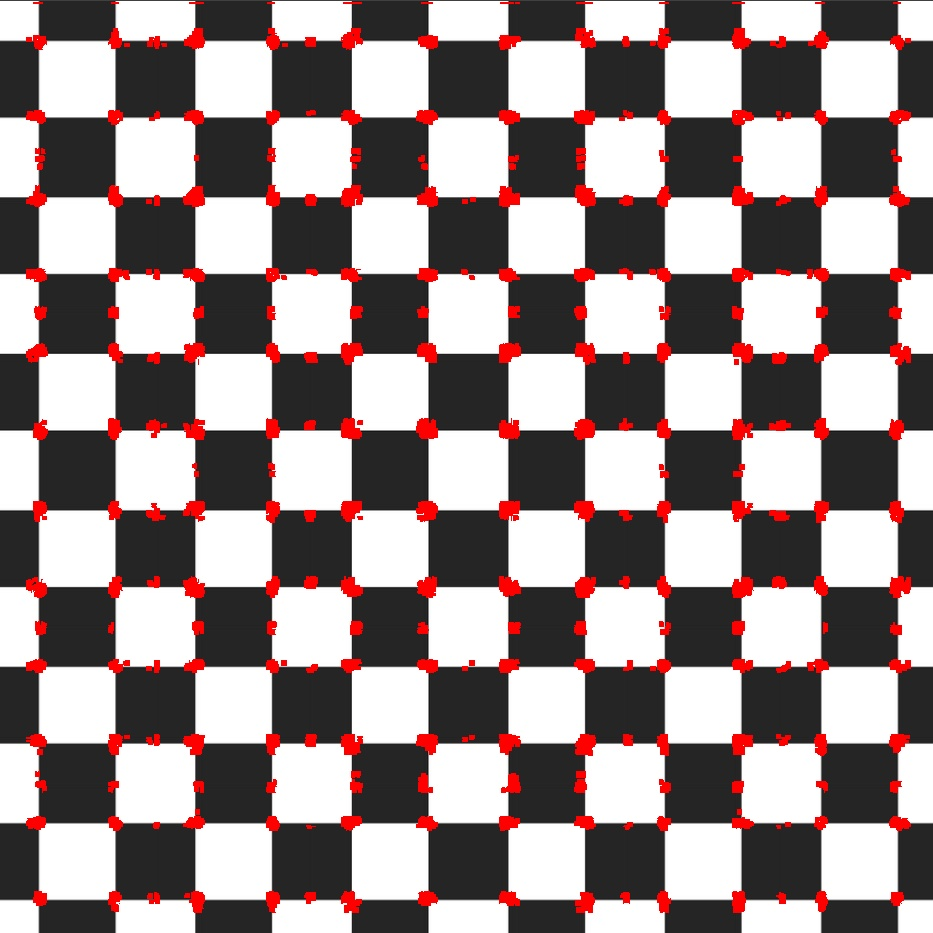
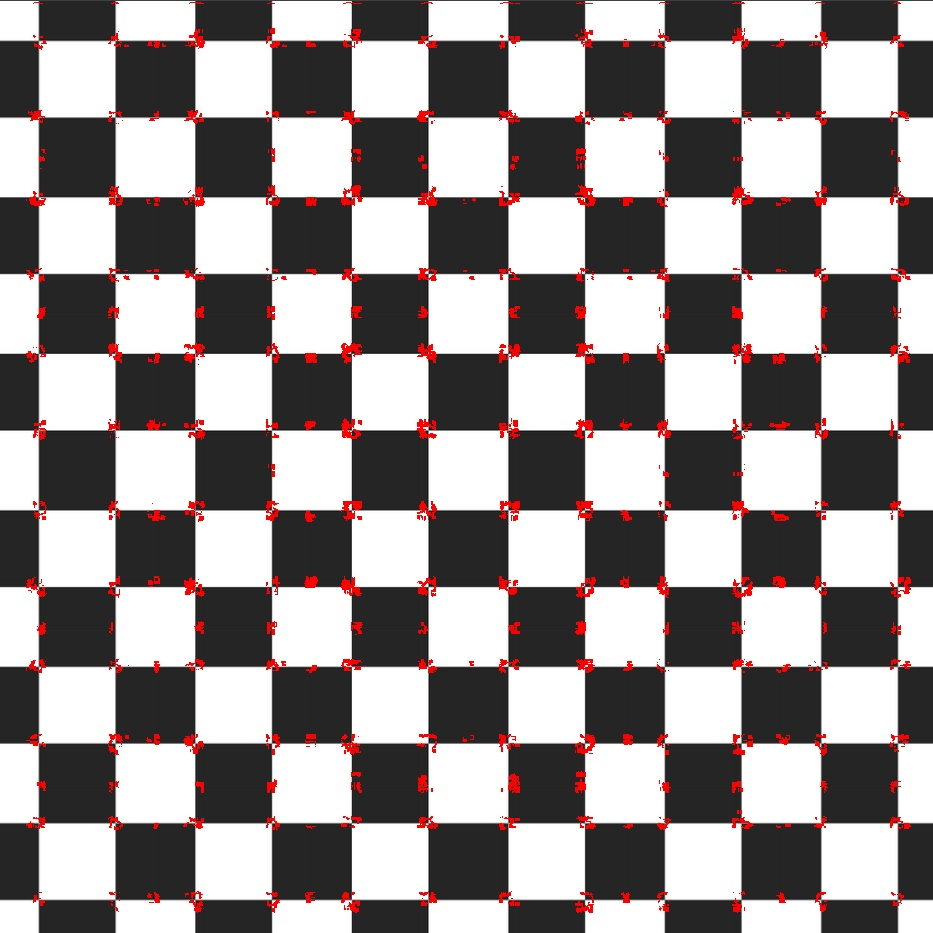
chenged threshold value of Harris corner

diff --git a/assignment1/ass1.py b/assignment1/ass1.py
@@ -320,13 +320,13 @@ if __name__ == "__main__":
 	# binary_img = part4(img)
 	# cv2.imwrite("Binary.jpg", binary_img)
 
-	#Part - 5 - Harris Corner
+	# Part - 5 - Harris Corner
 	# img = cv2.imread("checkerBoard.png", 0)
-	# final_img, cornerList = HarrisCorners(img, int(5), float(0.06), int(10000))
+	# final_img, cornerList = HarrisCorners(img, int(5), float(0.18), int(100000))
 	# cv2.imwrite("HarrisCorner.jpg", final_img)
 
 	#Part - 6 - Connected Components 
-	# img = np.array([[0,0,0,0,0],[0,0,1,1,0],[0,0,1,1,0],[0,0,0,1,0],[0,0,0,0,1]])#cv2.imread("sample1.png", 0)
+	# img = np.array([[0,0,0,0,0,0,0,0,0,0],[0,1,1,1,0,0,1,1,1,0],[0,1,1,1,0,0,1,1,1,0],[1,0,0,1,1,0,0,0,1,0],[0,0,0,0,1,0,0,0,0,1]])#cv2.imread("input.png", 0)
 	# print(img.shape)
 	# print(img)
 	# label = part6(img, 4)
